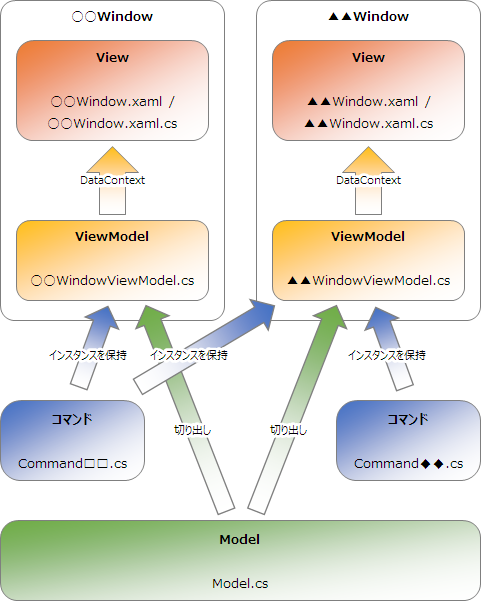
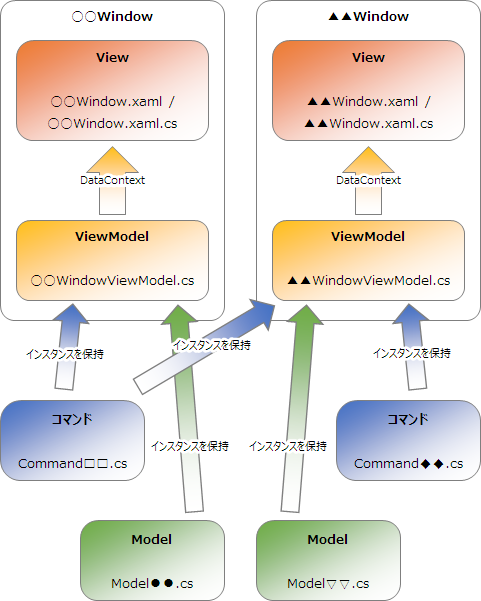
default message

diff --git a/TIPS/03_フレームワーク/02_Windows Presentation Foundation(WPF)/00_MVVM/MVVMパターン.html b/TIPS/03_フレームワーク/02_Windows Presentation Foundation(WPF)/00_MVVM/MVVMパターン.html
@@ -1,4 +1,4 @@
-<!DOCTYPE html>
+<!DOCTYPE html>
 
 <!-- 基準URI -->
 <base href="https://takaha-q.github.io/">
@@ -34,11 +34,12 @@
 
 <!-- 関連ページ -->
 <details><summary class=link>関連 :</summary>
-<div class=pre><div class=pre><a href="TIPS/03_フレームワーク/02_Windows Presentation Foundation(WPF)/03_データバインディング/データバインディング.html">データバインディング</a>
-<a href="コマンド.html">コマンド</a>
-<a href="TIPS/03_フレームワーク/02_Windows Presentation Foundation(WPF)/03_データバインディング/RelativeSource.html">RelativeSource</a>
-<a href="TIPS/03_フレームワーク/02_Windows Presentation Foundation(WPF)/03_データバインディング/ReactiveProperty.html">ReactiveProperty</a>
-<a href="TIPS/03_フレームワーク/02_Windows Presentation Foundation(WPF)/03_データバインディング/依存関係プロパティ.html">依存関係プロパティ</a>
+<div class=pre></div><a href="TIPS/03_フレームワーク/02_Windows Presentation Foundation(WPF)/00_MVVM/INotifyPropertyChanged.html">INotifyPropertyChanged</a>
+<a href="TIPS/03_フレームワーク/02_Windows Presentation Foundation(WPF)/00_MVVM/コマンド(ICommand).html">コマンド(ICommand)</a>
+<a href="TIPS/03_フレームワーク/02_Windows Presentation Foundation(WPF)/00_MVVM/MVVM Toolkit.html">MVVM Toolkit</a>
+<a href="TIPS/03_フレームワーク/02_Windows Presentation Foundation(WPF)/00_MVVM/データバインディング.html">データバインディング</a>
+<a href="TIPS/03_フレームワーク/02_Windows Presentation Foundation(WPF)/00_MVVM/ReactiveProperty.html">ReactiveProperty</a>
+<a href="TIPS/03_フレームワーク/02_Windows Presentation Foundation(WPF)/00_MVVM/依存関係プロパティ.html">依存関係プロパティ</a>
 <a href="TIPS/02_プログラミング言語/02_CSharp/デリゲートとイベント.html">デリゲートとイベント</a>
 </div>
 
@@ -66,79 +67,47 @@ View が外観を、Model が外観に直接関連しないデータを取り扱
 <div class="pre"><img src="https://raw.githubusercontent.com/Takaha-Q/Takaha-Q.github.io/main/_Img/WPF/MVVM/01.png" alt="画像">
 View はXAMLとコードビハインド(XAML.CS)から成り、外観を司る。
 ViewModel は View とは独立しており、ViewModel のインスタンスが View の DataContext として関連づけられる。
-これにより ViewModel のプロパティ(CLIプロパティ)と View の依存関係プロパティとがデータバインディングで関連づけられ、
+これにより ViewModel のプロパティ(CLIプロパティ)と View の依存関係プロパティとが関連づけられ、
 ViewModel の変更が View に伝播する。
+この View と関連づけられた ViewModel のプロパティを「<a href="TIPS/03_フレームワーク/02_Windows Presentation Foundation(WPF)/00_MVVM/INotifyPropertyChanged.html">変更通知プロパティ</a>」と呼び、
+View と ViewModel とのプロパティの関連づけを「<a href="TIPS/03_フレームワーク/02_Windows Presentation Foundation(WPF)/00_MVVM/データバインディング.html">データバインディング</a>」と呼ぶ。
 
-逆に View に対するユーザの操作(イベント)は ViewModel の「コマンド」に関連づけられ、ユーザ操作が ViewModel に伝播する。
+逆に View に対するユーザの操作(イベント)は ViewModel の「<a href="TIPS/03_フレームワーク/02_Windows Presentation Foundation(WPF)/00_MVVM/コマンド(ICommand).html">コマンド</a>」に関連づけられ、ユーザ操作が ViewModel に伝播する。
+(コマンドバインディング)
 
-Model ( ViewModel ではない)はアプリケーション全体で共有するデータを指し、ViewModel はその一部を切り出して用いることが多い。
-</div>
-
-<h3>注意が必要な点</h3>
-<div class="pre">Visual Studioで Window や UserControl を作成した際、対応するXAMLとコードビハインドは対で作成されるが、ViewModel はいかなる場合も自動では作成されない。
-(MVVMに準拠した構成となっていない。)
-このため、コードビハインドが ViewModel だと誤解されることも多い。ViewModel はあくまで手動で作成する必要がある。
+Model ( ViewModel ではない)は外観によらないデータを指し、ViewModel に組み込まれることで外観に関連づけられる。
 </div>
 
 <h3>ファイル構成例</h3>
 <div class="pre"><img src="https://raw.githubusercontent.com/Takaha-Q/Takaha-Q.github.io/main/_Img/WPF/MVVM/02.png" alt="画像">
-上図はMVVMパターンのファイル構成例である。
-ウィンドウ(またはユーザーコントロール、カスタムコントロール)ごとに View と ViewModel を作成し、View は それぞれに対応する ViewModel を DataContext として保持する。
-View と連動させる ViewModel のプロパティは Model から必要なものを切り出す。コマンドも同様に、それぞれの View で用いるもののインスタンスを ViewModel で保持する。
-DataContext およびコマンドについての詳細は後述。
+ウィンドウまたはユーザーコントロールごとに View と ViewModel を作成する。
+View と連動させる ViewModel のプロパティは組み込み型を直接保持するか、必要な Model をインスタンス化する。
+コマンドも同様に、それぞれの View で用いるもののインスタンスを ViewModel で保持する。
+</div>
+
+<h3>注意が必要な点</h3>
+<div class="pre">Visual Studioでウィンドウやユーザーコントロールを作成した際、対応するXAMLとコードビハインドは対で作成されるが、
+ViewModel はいかなる場合も自動では作成されない(MVVMに準拠した構成とならない)。
+このため、コードビハインドが ViewModel だと誤解されることも多いが誤りである。ViewModel はあくまで手動で作成する必要がある。
+
+なお、MVVMパターンはコードビハインドの記述を最小限に留めることが推奨されている。
+<code>DataContext</code>やバインディングの指定はXAMLで行うことが可能で、ユーザアクションへの対応(イベント処理)もコマンドに委譲できる。
+この場合、コードビハインドにはコンストラクタしか記述されない。
 </div>
 
 <h2>ViewModel の実装</h2>
-<h3>ViewModel のプロパティ変化を View に通知</h3>
+<h3>ViewModel のプロパティ変化を View に通知 : <a href="TIPS/03_フレームワーク/02_Windows Presentation Foundation(WPF)/00_MVVM/INotifyPropertyChanged.html">変更通知プロパティ</a></h3>
 <div class=pre>ViewModel で保持している情報が変化した際に View 側で何らかの動作を起こしたい(例えば、UIの表示を変更する)場合は、
-ViewModel に INotifyPropertyChanged インタフェースを実装したうえで PropertyChanged イベントを発生させる。
-View 側は PropertyChanged イベントフックに、イベント発生時にコールしたいコールバック(イベントハンドラ)を登録する。
-データバインディングされたプロパティ(ターゲット)も PropertyChanged を契機として変化するため、INotifyPropertyChanged を実装しなければ連動しない。
-(通常、ターゲットに指定されるコントロールの依存関係プロパティは INotifyPropertyChanged を実装しているため、特殊な操作は必要ない。)
-INotifyPropertyChanged の実装は煩雑だが、<a href="TIPS/03_フレームワーク/02_Windows Presentation Foundation(WPF)/03_データバインディング/ReactiveProperty.html">ReactiveProperty</a> で代用すると記述量を抑えることができる。
+ViewModel に<code>INotifyPropertyChanged</code>インタフェースを実装したうえで<code>PropertyChanged</code>イベントを発生させる。
+View 側は<code>PropertyChanged</code>イベントフックに、イベント発生時にコールしたいコールバック(イベントハンドラ)を登録する。
+View 側のデータバインディングされたプロパティ(ターゲット)も <code>PropertyChanged</code> を契機として変化するため、<code>INotifyPropertyChanged</code> を実装しなければ連動しない。
+(即ち、ViewModel と View の両方に<code>INotifyPropertyChanged</code>を実装する必要がある。
+ただし、ターゲットに指定されるコントロールの依存関係プロパティは通常<code>INotifyPropertyChanged</code>を実装しているため、特殊な操作は必要ない。)
+詳細はリンク先を参照。
 </div>
 
-<h6>ViewModel : MainViewModel.cs</h6>
-
-<div class="cs">
-<kwd>namespace</kwd> Sample
-{
-    <cmt>// ViewModel の本体 : INotifyPropertyChanged を実装</cmt>
-    <kwd>class</kwd> MainViewModel : INotifyPropertyChanged
-    {
-        <cmt>// フィールド</cmt>
-        <kwd>private string</kwd> _message;
-
-        <cmt>// プロパティ</cmt>
-        <kwd>public string</kwd> Message 
-        {
-            <kwd>get</kwd> =&gt; _message;
-            <kwd>set</kwd>
-            {
-                <kwd>if</kwd>( _message != value )
-                {
-                    _message = value;
-
-                    <cmt>// PropertyChanged イベントを発生させる</cmt>
-                    OnPropertyChanged();
-                }
-            }
-        }
-
-        <cmt>// ( INotifyPropertyChanged )PropertyChanged イベントフック</cmt>
-        <kwd>public event</kwd> PropertyChangedEventHandler PropertyChanged;
-
-        <cmt>// PropertyChanged イベントを発生させる</cmt>
-        <kwd>protected void</kwd> OnPropertyChanged( [CallerMemberName]<kwd>string</kwd> propertyName = <kwd>null</kwd> )
-        {
-            PropertyChanged?.Invoke( <kwd>this</kwd>, <kwd>new</kwd> PropertyChangedEventArgs(propertyName) );
-        }
-    }
-}
-</div>
-
-<h3>View の操作を ViewModel に通知 : コマンド</h3>
-UIへの操作を ViewModel に伝えたい場合は「<a href="コマンド.html">コマンド」</a>を使用する。詳細はリンク先を参照。
+<h3>View の操作を ViewModel に通知 : <a href="TIPS/03_フレームワーク/02_Windows Presentation Foundation(WPF)/00_MVVM/コマンド(ICommand).html">コマンド</a></h3>
+UIへの操作を ViewModel に伝えたい場合はコマンドを使用する。詳細はリンク先を参照。
 
 <h3>View と ViewModel の結合</h3>
 任意のクラスを ViewModel として新たに作成し、View の DataContext に設定する。
@@ -174,9 +143,9 @@ UIへの操作を ViewModel に伝えたい場合は「<a href="コマンド.htm
     &lt;<tag>TextBlock</tag> <prp>Text</prp>=<ltr>"{Binding Message}"</ltr> /&gt;
 </div>
 
-DataContext の指定はコードビハインドから行うことも可能。<br>
-その場合はコンストラクタ中で ViewModel のインスタンスを DataContext に代入する。<br>
-(ただし、MVVMパターンはコードビハインドの記述を最小限に留めることを是とするため、推奨されない。XAMLで指定することが推奨されている。)
+<div class=pre>DataContext の指定はコードビハインドから行うことも可能(推奨されない)。
+その場合はコンストラクタ中で ViewModel のインスタンスを DataContext に代入する。
+</div>
 
 <h6>View : MainWindow.xaml.cs</h6>
 
@@ -193,5 +162,11 @@ DataContext の指定はコードビハインドから行うことも可能。<b
         }
     }
 }
+</div>
+
+<h3>ViewModel 構築の支援</h3>
+<div class=pre>変更通知プロパティやコマンドを含めた ViewModel の実装は煩雑であるが、
+ViewModel の構築を支援してくれるライブラリが複数存在し、それらを活用することでコードの記述を大幅に削減できる。
+<a href="TIPS/03_フレームワーク/02_Windows Presentation Foundation(WPF)/00_MVVM/ReactiveProperty.html">ReactiveProperty</a>が代表的。詳細はリンク先を参照。
 </div>
 

diff --git a/TIPS/03_フレームワーク/02_Windows Presentation Foundation(WPF)/00_MVVM/INotifyPropertyChanged.html b/TIPS/03_フレームワーク/02_Windows Presentation Foundation(WPF)/00_MVVM/INotifyPropertyChanged.html
@@ -25,17 +25,15 @@
 <a href="https://qiita.com/soi/items/d0c83a0cc3a4b23237ef">INotifyPropertyChangedプロパティ実装方法まとめ C#3からC#7、Fodyも #.NET - Qiita</a>
 <a href="https://learn.microsoft.com/ja-jp/dotnet/api/system.componentmodel.inotifypropertychanged.propertychanged?view=net-8.0#system-componentmodel-inotifypropertychanged-propertychanged">INotifyPropertyChanged.PropertyChanged イベント (System.ComponentModel) | Microsoft Learn</a>
 <a href="https://learn.microsoft.com/ja-jp/dotnet/api/system.componentmodel.propertychangedeventargs?view=net-8.0">PropertyChangedEventArgs クラス (System.ComponentModel) | Microsoft Learn</a>
-
 </div>
 </details>
 
 <!-- 関連ページ -->
 <details><summary class=link>関連 :</summary>
-<div class=pre><a href="TIPS/03_フレームワーク/02_Windows Presentation Foundation(WPF)/00_MVVM/データバインディング.html">[WPF]データバインディング</a>
-<a href="TIPS/03_フレームワーク/02_Windows Presentation Foundation(WPF)/00_MVVM/依存関係プロパティ.html">[WPF]依存関係プロパティ</a>
-<a href="TIPS/03_フレームワーク/02_Windows Presentation Foundation(WPF)/00_MVVM/ReactiveProperty.html">[WPF]ReactiveProperty</a>
-
-
+<div class=pre><a href="TIPS/03_フレームワーク/02_Windows Presentation Foundation(WPF)/00_MVVM/データバインディング.html">データバインディング</a>
+<a href="TIPS/03_フレームワーク/02_Windows Presentation Foundation(WPF)/00_MVVM/MVVMパターン.html">MVVMパターン</a>
+<a href="TIPS/03_フレームワーク/02_Windows Presentation Foundation(WPF)/00_MVVM/MVVM Toolkit.html">MVVM Toolkit</a>
+<a href="TIPS/03_フレームワーク/02_Windows Presentation Foundation(WPF)/00_MVVM/ReactiveProperty.html">ReactiveProperty</a>
 </div>
 </details>
 
@@ -47,14 +45,15 @@
 <!-- 本文ここから -->
 
 <h2>INotifyPropertyChanged とは</h2>
-自身のプロパティが変更されたことをクラス外に通知するためのインタフェース。インタフェースを実装することで、プロパティが変更された際にイベントを発行することができる。<br>
-<img src="https://raw.githubusercontent.com/Takaha-Q/Takaha-Q.github.io/main/_Img\dotNET\INotifyPropertyChanged\01.png" alt="画像"><br>
+<div class=pre>自身のプロパティが変更されたことをクラス外に通知するためのインタフェース。
+実装することで、プロパティが変更された際にイベントを発行することができる。
+<img src="https://raw.githubusercontent.com/Takaha-Q/Takaha-Q.github.io/main/_Img\dotNET\INotifyPropertyChanged\01.png" alt="画像">
+</div>
 
 <h3>データバインディングとの関係</h3>
-INotifyPropertyChanged は<a href="TIPS/03_フレームワーク/02_Windows Presentation Foundation(WPF)/00_MVVM/データバインディング.html">データバインディング</a>を実現するための手段として用いられる。<br>
-即ち、プロパティの変更をUIコントロールに通知するために、INotifyPropertyChanged を用いるのが通例であった。<br>
-しかし INotifyPropertyChanged の実装は煩雑なため、WPFでは記述量を削減できる <a href="TIPS/03_フレームワーク/02_Windows Presentation Foundation(WPF)/00_MVVM/ReactiveProperty.html">ReactiveProperty</a> が別途実装された。<br>
-このためWPFにおけるViewとViewModelのバインディングには特殊なケースを除き、ReactiveProperty を用いればよい。
+<div class=pre><code>INotifyPropertyChanged</code>は主に<a href="TIPS/03_フレームワーク/02_Windows Presentation Foundation(WPF)/00_MVVM/データバインディング.html">データバインディング</a>の手段として用いられる。
+即ち、( MVVM における ViewModel の)プロパティの変更をUI( MVVM の View )コントロールに通知する(もしくは逆)ために用いる。
+</div>
 
 <h2>実装例</h2>
 以下、C#7における実装例を示す。
@@ -116,6 +115,12 @@ INotifyPropertyChanged は<a href="TIPS/03_フレームワーク/02_Windows Pres
 
 上記は Sample クラスの Name プロパティが変更された際に通知を行う場合のコードである。<br>
 通知を受ける側は Sample の EventHook に、実行させたいイベントハンドラ(コールバック)を登録する。<br>
-通知する側( Sample )は Name プロパティが変更された際に PropertyChanged イベントを発行する(フックに登録されたコールバックを実行する)。<br>
+通知する側( Sample )は Name プロパティが変更された際に<code>PropertyChanged</code>イベントを発行する(フックに登録されたコールバックを実行する)。<br>
 その際に変更されたプロパティ名を( nameof() で取得して)渡すため、受け側ではどのプロパティが変更されたのかをイベント引数から取得することができる。
+
+<h2>WPFにおける INotifyPropertyChanged 実装の支援</h2>
+<div class=pre>上述のように、<code>INotifyPropertyChanged</code>の実装は煩雑であるが、
+<a href="TIPS/03_フレームワーク/02_Windows Presentation Foundation(WPF)/00_MVVM/ReactiveProperty.html">ReactiveProperty</a>を用いることで比較的簡単に実装を行うことができる。
+詳細は各リンク先を参照。
+</div>
 

diff --git a/TIPS/03_フレームワーク/02_Windows Presentation Foundation(WPF)/00_MVVM/ReactiveProperty.html b/TIPS/03_フレームワーク/02_Windows Presentation Foundation(WPF)/00_MVVM/ReactiveProperty.html
@@ -49,6 +49,8 @@
 
 <!-- 本文ここから -->
 
+※当記事は書きかけです。
+
 <h2>ReactiveProperty ( Reactive.Bindings.ReactiveProperty )とは</h2>
 <div class=pre>WPFにおいて、リアクティブプログラミング( View / ViewModel の変更を他方に伝播させる)を容易に実現することを目論んで作られたクラス群。
 データバインディングやコマンドを簡便に実装することができる。
